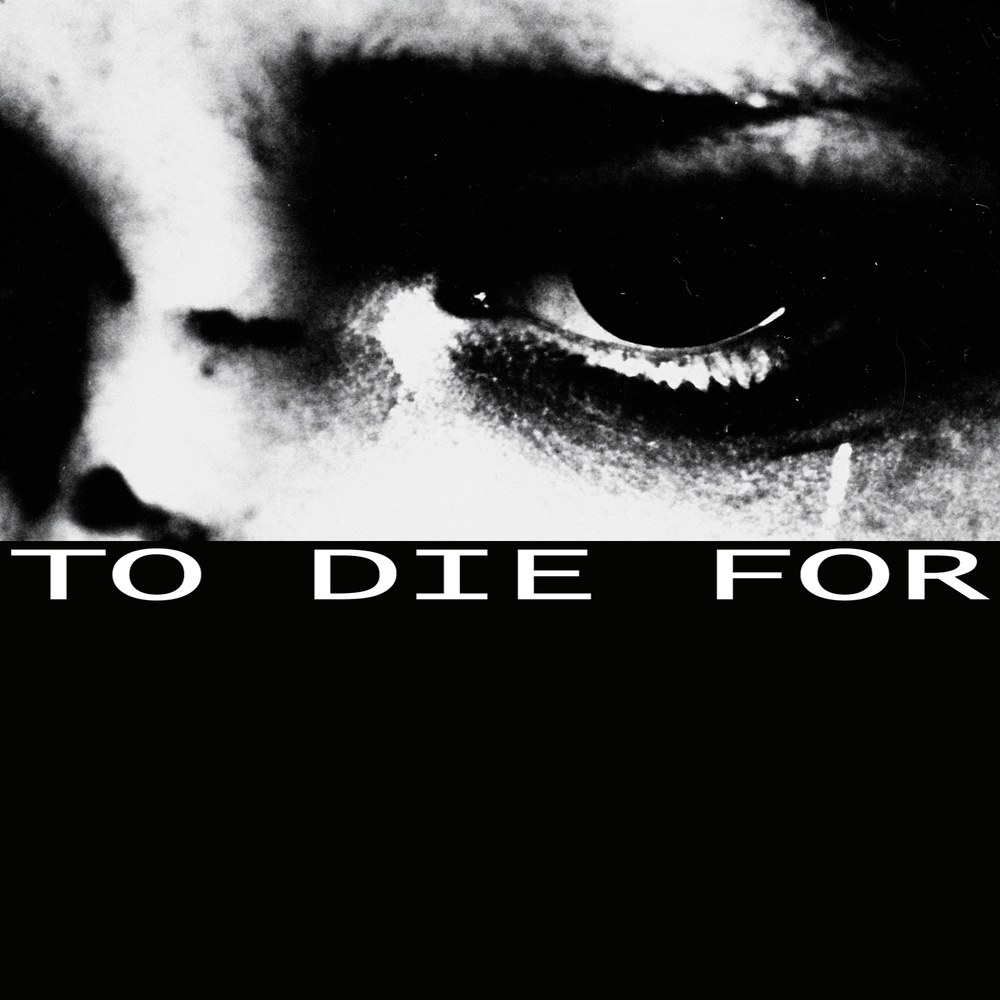
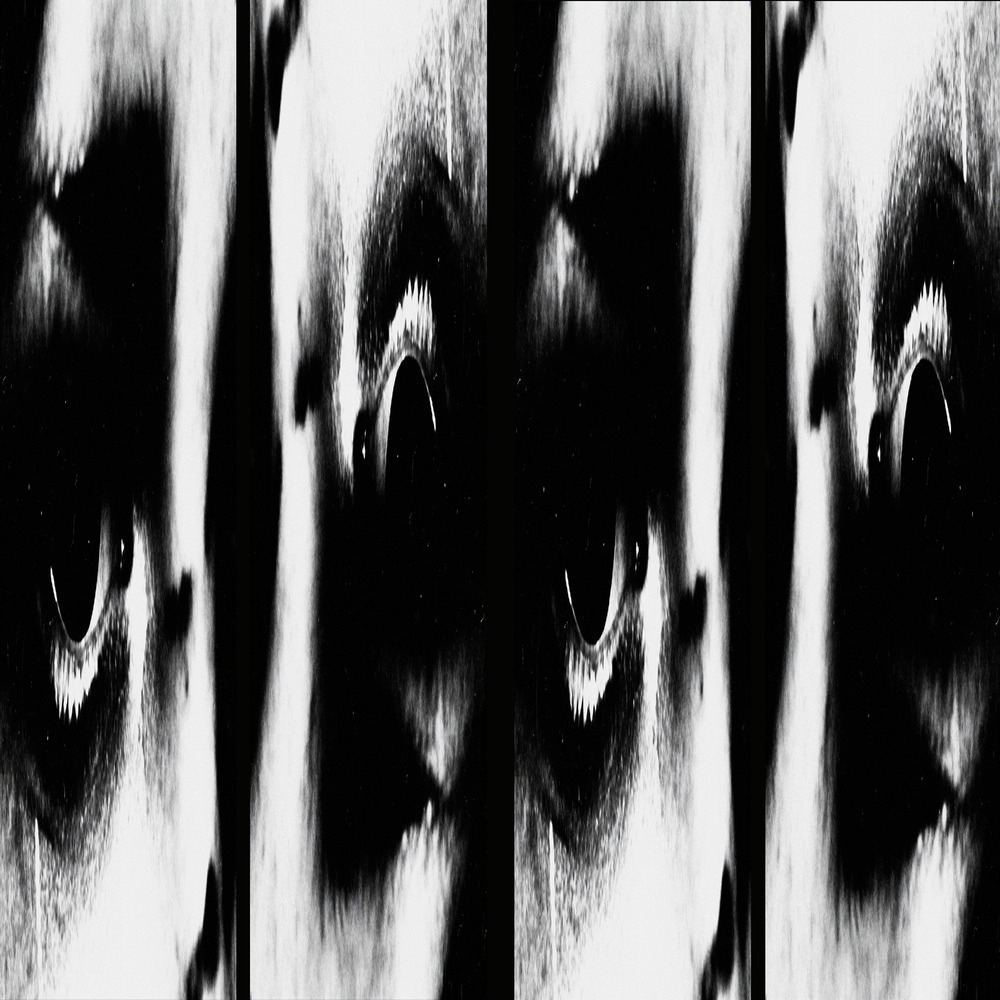
Replace TO DIE FOR cover artwork

diff --git a/index.html b/index.html
@@ -29,7 +29,7 @@
     <h1 class="portrait__title" id="site-title">Demokira</h1>
     <p class="portrait__body">Hi, I&#x27;m Sargis Dskhkunyan aka Demokira — a creator making short indie games, experimental music, videos and AI content</p>
   </div>
-</section><section aria-labelledby="music-heading" class="bill" id="music"><div class="bill__head"><p class="rail-label">side a / audio</p><h2 class="h-display" id="music-heading">Music</h2><p class="lede">Standalone releases and soundtracks for indie games — mine and other people&#x27;s</p></div><ol class="sleeves"><li class="sleeve"><figure class="sleeve__art"><img alt="Selected works cover artwork" height="512" loading="lazy" src="assets/covers/best-of.jpg" width="512"/><figcaption>playlist</figcaption></figure><div class="sleeve__meta"><h3>Selected works</h3><p class="sleeve__desc">A playlist featuring my favorite tracks from 2023 and 2024</p><a class="listen" href="https://demokira.bandcamp.com/album/the-best-of-demokira-23-24" rel="noopener noreferrer" target="_blank"><span aria-hidden="true">»</span> listen</a></div></li><li class="sleeve"><figure class="sleeve__art"><img alt="Demokira cover artwork" height="512" loading="lazy" src="assets/covers/demokira.jpg" width="512"/><figcaption>album</figcaption></figure><div class="sleeve__meta"><h3>Demokira</h3><p class="sleeve__desc">An experimental ambient album focusing on a dark sound and unusual textures</p><a class="listen" href="https://demokira.bandcamp.com/album/demokira" rel="noopener noreferrer" target="_blank"><span aria-hidden="true">»</span> listen</a></div></li><li class="sleeve"><figure class="sleeve__art"><img class="sleeve-img--center" alt="Rekuiemu Nikki OST cover artwork" height="512" loading="lazy" src="assets/covers/rekuiemu-ost.jpg" width="512"/><figcaption>soundtrack</figcaption></figure><div class="sleeve__meta"><h3>Rekuiemu Nikki OST</h3><p class="sleeve__desc">A soundtrack inspired by the original Yume Nikki</p><a class="listen" href="https://demokira.bandcamp.com/album/rekuiemu-nikki-demo-ost" rel="noopener noreferrer" target="_blank"><span aria-hidden="true">»</span> listen</a></div></li><li class="sleeve"><figure class="sleeve__art"><img alt="Why Do Not I Have A Choice cover artwork" height="512" loading="lazy" src="assets/covers/choice.jpg" width="512"/><figcaption>album</figcaption></figure><div class="sleeve__meta"><h3>Why Do Not I Have A Choice</h3><p class="sleeve__desc">A solo piano album played live and improvised from start to finish</p><a class="listen" href="https://demokira.bandcamp.com/album/why-do-not-i-have-a-choice" rel="noopener noreferrer" target="_blank"><span aria-hidden="true">»</span> listen</a></div></li><li class="sleeve"><figure class="sleeve__art"><img alt="It Is Nothing Short Of A Hoax cover artwork" height="512" loading="lazy" src="assets/covers/hoax.jpg" width="512"/><figcaption>album</figcaption></figure><div class="sleeve__meta"><h3>It Is Nothing Short Of A Hoax</h3><p class="sleeve__desc">An experimental breakcore album built on broken beats and ambient beds with sudden collapses</p><a class="listen" href="https://demokira.bandcamp.com/album/it-is-nothing-short-of-a-hoax" rel="noopener noreferrer" target="_blank"><span aria-hidden="true">»</span> listen</a></div></li><li class="sleeve sleeve--upcoming"><figure class="sleeve__art"><img alt="??? cover artwork" height="512" loading="lazy" src="assets/covers/upcoming.jpg" width="512"/><figcaption>album</figcaption></figure><div class="sleeve__meta"><h3>???</h3><p class="sleeve__desc">An experimental noise rock album built on broken guitars and tape hiss. A voice keeps slipping out of tune</p><span class="listen listen--soon">soon</span></div></li></ol></section><section aria-labelledby="games-heading" class="inverse inverse--games" id="games"><div class="inverse__head"><p class="rail-label rail-label--ink">side b / interactive</p><h2 class="h-display" id="games-heading">Games</h2><p class="lede lede--ink">Short narrative games from me, as well as other game jam projects</p></div><ol class="sleeves sleeves--games"><li class="sleeve">
+</section><section aria-labelledby="music-heading" class="bill" id="music"><div class="bill__head"><p class="rail-label">side a / audio</p><h2 class="h-display" id="music-heading">Music</h2><p class="lede">Standalone releases and soundtracks for indie games — mine and other people&#x27;s</p></div><ol class="sleeves"><li class="sleeve"><figure class="sleeve__art"><img alt="Selected works cover artwork" height="512" loading="lazy" src="assets/covers/best-of.jpg" width="512"/><figcaption>playlist</figcaption></figure><div class="sleeve__meta"><h3>Selected works</h3><p class="sleeve__desc">A playlist featuring my favorite tracks from 2023 and 2024</p><a class="listen" href="https://demokira.bandcamp.com/album/the-best-of-demokira-23-24" rel="noopener noreferrer" target="_blank"><span aria-hidden="true">»</span> listen</a></div></li><li class="sleeve"><figure class="sleeve__art"><img alt="Demokira cover artwork" height="512" loading="lazy" src="assets/covers/demokira.jpg" width="512"/><figcaption>album</figcaption></figure><div class="sleeve__meta"><h3>Demokira</h3><p class="sleeve__desc">An experimental ambient album focusing on a dark sound and unusual textures</p><a class="listen" href="https://demokira.bandcamp.com/album/demokira" rel="noopener noreferrer" target="_blank"><span aria-hidden="true">»</span> listen</a></div></li><li class="sleeve"><figure class="sleeve__art"><img class="sleeve-img--center" alt="Rekuiemu Nikki OST cover artwork" height="512" loading="lazy" src="assets/covers/rekuiemu-ost.jpg" width="512"/><figcaption>soundtrack</figcaption></figure><div class="sleeve__meta"><h3>Rekuiemu Nikki OST</h3><p class="sleeve__desc">A soundtrack inspired by the original Yume Nikki</p><a class="listen" href="https://demokira.bandcamp.com/album/rekuiemu-nikki-demo-ost" rel="noopener noreferrer" target="_blank"><span aria-hidden="true">»</span> listen</a></div></li><li class="sleeve"><figure class="sleeve__art"><img alt="Why Do Not I Have A Choice cover artwork" height="512" loading="lazy" src="assets/covers/choice.jpg" width="512"/><figcaption>album</figcaption></figure><div class="sleeve__meta"><h3>Why Do Not I Have A Choice</h3><p class="sleeve__desc">A solo piano album played live and improvised from start to finish</p><a class="listen" href="https://demokira.bandcamp.com/album/why-do-not-i-have-a-choice" rel="noopener noreferrer" target="_blank"><span aria-hidden="true">»</span> listen</a></div></li><li class="sleeve"><figure class="sleeve__art"><img alt="It Is Nothing Short Of A Hoax cover artwork" height="512" loading="lazy" src="assets/covers/hoax.jpg" width="512"/><figcaption>album</figcaption></figure><div class="sleeve__meta"><h3>It Is Nothing Short Of A Hoax</h3><p class="sleeve__desc">An experimental breakcore album built on broken beats and ambient beds with sudden collapses</p><a class="listen" href="https://demokira.bandcamp.com/album/it-is-nothing-short-of-a-hoax" rel="noopener noreferrer" target="_blank"><span aria-hidden="true">»</span> listen</a></div></li><li class="sleeve sleeve--upcoming"><figure class="sleeve__art"><img alt="??? cover artwork" height="512" loading="lazy" src="assets/covers/upcoming.jpg?v=20261116" width="512"/><figcaption>album</figcaption></figure><div class="sleeve__meta"><h3>???</h3><p class="sleeve__desc">An experimental noise rock album built on broken guitars and tape hiss. A voice keeps slipping out of tune</p><span class="listen listen--soon">soon</span></div></li></ol></section><section aria-labelledby="games-heading" class="inverse inverse--games" id="games"><div class="inverse__head"><p class="rail-label rail-label--ink">side b / interactive</p><h2 class="h-display" id="games-heading">Games</h2><p class="lede lede--ink">Short narrative games from me, as well as other game jam projects</p></div><ol class="sleeves sleeves--games"><li class="sleeve">
   <figure class="sleeve__art"><img alt="TV Show Or Die? cover artwork" height="512" loading="lazy" src="assets/covers/tv-show.jpg" width="512"/><figcaption>visual novel</figcaption></figure>
   <div class="sleeve__meta"><h3>TV Show Or Die?</h3><p class="sleeve__desc">Took 1st place in the soundtrack category with the soundtrack written by me</p><a class="play" href="https://demokira.itch.io/tv-show-or-die" rel="noopener noreferrer" target="_blank"><span aria-hidden="true">»</span> play</a></div>
 </li><li class="sleeve">
